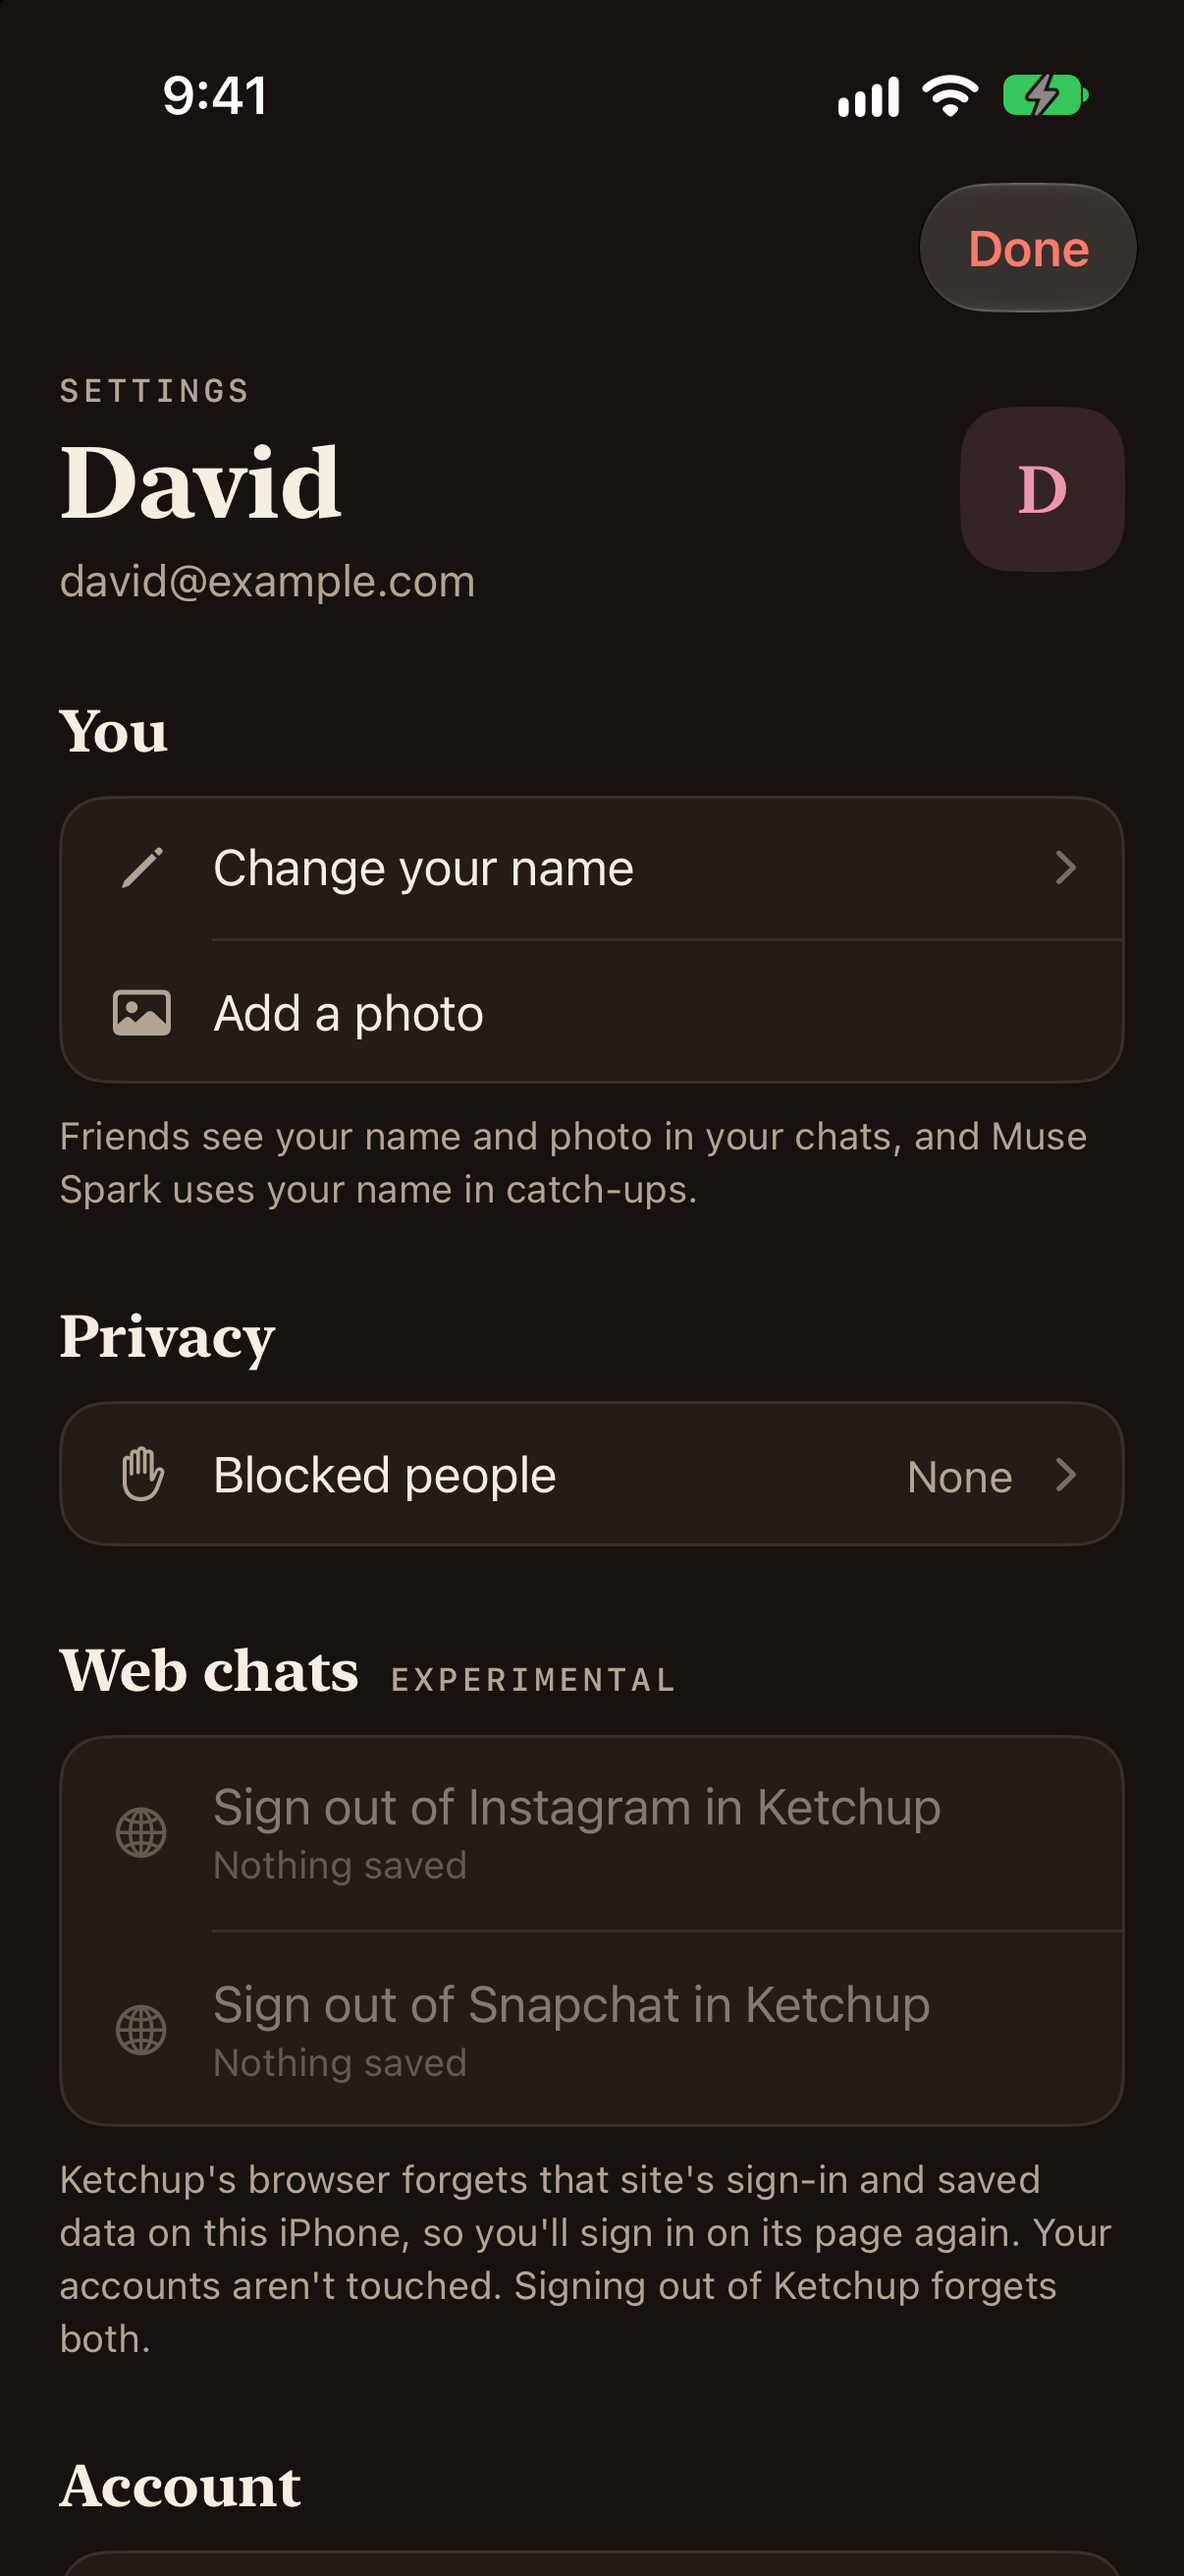
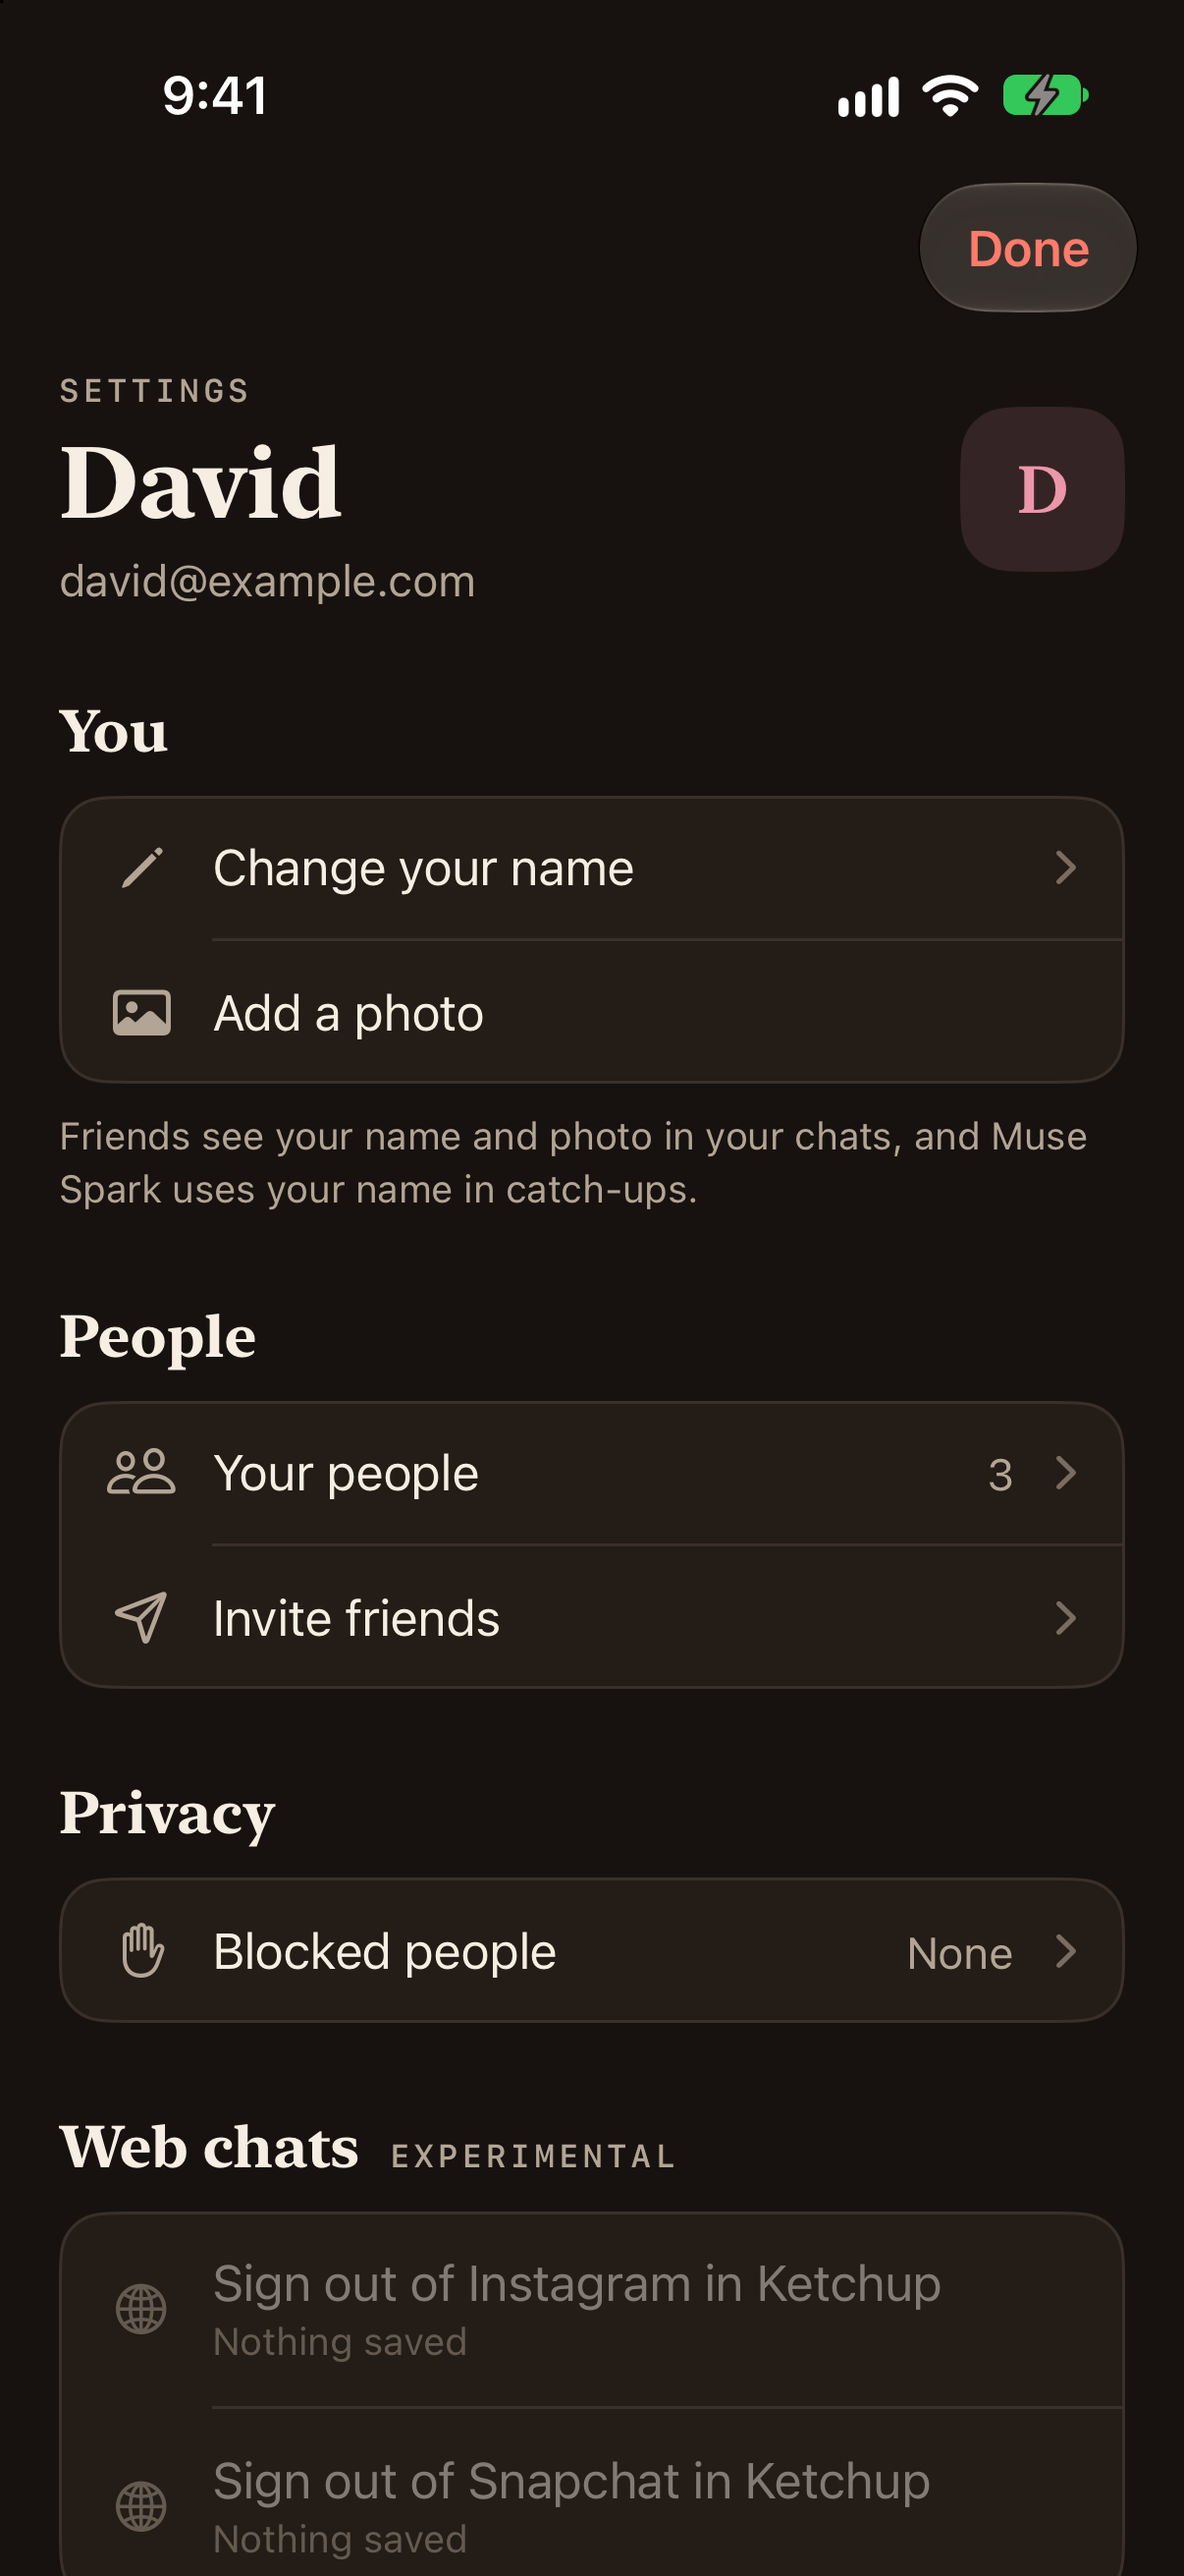
Docs and screenshots: your people, New chat with them, Invite friends
README: Settings and Security sections (no lookup by email or phone, the
contact picker hands over one number, the suite at 79). the project notes: the
contacts and invite recipe and previews. DESIGN.md: the People, picker
and invite pieces. Light, dark and XXL screenshots.

diff --git a/docs/DESIGN.md b/docs/DESIGN.md
@@ -270,6 +270,23 @@ A profile opens from a name or photo in the thread (a sheet) or a member in Chat
 - **Say who's told.** Every block and report screen says it plainly: they aren't told, they won't know it was you.
 - **In Chat info,** a blocked member gets a ketchup "Blocked" kicker, and everyone but you has a chevron.
 
+### Your people and Invite friends
+
+<p>
+<img src="screens/people/people-light.png" width="200" alt="Your people: Maya, Priya and Theo, each in 1 chat with you">
+<img src="screens/people/new-chat-people-light.png" width="200" alt="New chat with Maya and Theo picked to add straight in">
+<img src="screens/people/invite-light.png" width="200" alt="Invite friends: which chat, what they'll get, Text a friend">
+<img src="screens/people/profile-contact-dark.png" width="200" alt="A profile with Remove from your people, dark">
+</p>
+
+| Piece | What it does |
+|---|---|
+| `PeopleView` | A kicker count over "Your people" in New York, then each person's avatar, name and "In 2 chats with you" in mono, with a chevron to their profile. An outline Invite friends under it. |
+| `PeoplePicker(people:picked:)` | Your people with an ink check each, for New chat. |
+| `InviteView` | Which chat (one ink check, its code in mono), the exact message on paper under "What they'll get", Text a friend (the one ketchup button) and an outline Share another way, and a footnote on what Ketchup sees. |
+
+- **Say what's shared.** The invite page names what Ketchup gets from the contact picker: the one number, used once.
+
 ## Voice
 
 - Plain, warm, a little cheeky. **At most one pun per screen.**
@@ -294,7 +311,7 @@ xcrun simctl launch --terminate-running-process <udid> com.vibetemp.ketchup -scr
 | `saved`, `saved-brief`, `saved-empty`, `saved-quote`, `saved-all` | Saved catch-ups (`Debug/SavedPreviewScreen.swift`) on a scratch store: Breck's Earlier catch-ups, opened on its catch-up, empty, a source shown as kept, and every chat's list in its Settings bar |
 | `store-check` | Not a screen: runs the on-device copy and saved catch-ups (`Store/DeviceStore.swift`) against a scratch folder and lists what passed (`Debug/StoreCheckScreen.swift`) |
 | `web-instagram`, `web-snapchat`, `web-intro`, `web-reading`, `web-brief`, `web-error`, `web-quote` | The web-chat screens (`Debug/WebChatPreviewScreen.swift`) on the synthetic threads. `web-instagram` and `web-snapchat` are each page on its bundled fixture; `web-brief` is a hand-written brief, not a Muse Spark call |
-| `settings`, `settings-sheet`, `settings-name`, `settings-delete`, `settings-blocked`, `profile`, `profile-blocked`, `report`, `report-sent`, `info-blocked`, `chat-profile`, `chat-report` | Settings and the people screens (`Debug/PeoplePreviewScreen.swift`), on the demo chat's made-up friends. `settings` is full screen (add `-section web`, `account` or `about`); `settings-sheet` is the sheet as the inbox opens it; `chat-profile` and `chat-report` open over the Breck thread |
+| `settings`, `settings-sheet`, `settings-name`, `settings-delete`, `settings-blocked`, `profile`, `profile-blocked`, `report`, `report-sent`, `info-blocked`, `chat-profile`, `chat-report`, `people`, `people-empty`, `profile-contact`, `new-chat-people`, `invite` | Settings and the people screens (`Debug/PeoplePreviewScreen.swift`), on the demo chat's made-up friends. `settings` is full screen (add `-section web`, `account` or `about`); `settings-sheet` is the sheet as the inbox opens it; `chat-profile` and `chat-report` open over the Breck thread |
 | `photo-crop`, `photo-inbox`, `photo-chat`, `photo-info`, `photo-thread`, `photo-sending`, `photo-attach`, `photo-viewer`, `photo-catchup`, `photo-answer` | Photos (`Debug/PhotosPreviewScreen.swift`): the cropper on a made-up mountain photo; the inbox, the Breck thread and its members with made-up profile photos (`Debug/PreviewPhotos.swift`; Sam has none, to show the monogram); the end of Breck with photos in it, David's photo uploading (a pretend 20 s upload), one waiting in the composer, and the viewer on Maya's cabin; `photo-catchup` (add `-section highlights`) and `photo-answer` cite Maya's door-code photo with its thumbnail |
 
 Light and dark screenshots:

diff --git a/CLAUDE.md b/CLAUDE.md
@@ -102,15 +102,16 @@ safe to re-run) adds two made-up photos on the last day, so a catch-up can cite 
 
 ## Settings and people (migration 0007)
 Code: `ios/Ketchup/People/` (`SettingsView`, `AccountPages`, `SettingsPieces`, `Account.swift`,
-`ProfileView`, `ReportView`, `BlockedPeopleView`, `PeopleStore`, `PeopleModels`),
+`ProfileView`, `ReportView`, `BlockedPeopleView`, `PeopleView` with `PeoplePicker`, `InviteView`,
+`PeopleStore`, `PeopleModels`),
 `Net/PeopleAPI.swift`, `WebChat/WebChatSignOut.swift`, edge functions `delete-account` and
 `report-alert`. Settings opens from the inbox's top-left
 photo (your initial until you add one) as a sheet; signing out waits for the sheet to close (`SettingsExit`, the sheet's
 `onDismiss` in `ChatsListView`), so it can't be left over sign-in.
 - `0007_people.sql` is one file applied live in parts, one `apply_migration` per slice, each
   named `0007_people_<part>` (so far `0007_people_account`, `0007_people_account_photos`,
-  `0007_people_blocks_reports`, `0007_people_reports_index`, `0007_people_delete_files`).
-  Append, never rewrite: a fresh project runs the whole file once.
+  `0007_people_blocks_reports`, `0007_people_reports_index`, `0007_people_delete_files`,
+  `0007_people_contacts`). Append, never rewrite: a fresh project runs the whole file once.
 - Delete account is the `delete-account` edge function (verify_jwt on): it calls
   `delete_account()` as the person (security definer, `authenticated` only), which deletes
   friends' saved catch-ups that read their messages, then the auth user (profile,
@@ -157,14 +158,26 @@ photo (your initial until you add one) as a sheet; signing out waits for the she
   `REPORTS_FROM`, default `Ketchup <noreply@vibetemp.com>`). Deploy:
   `supabase functions deploy report-alert --project-ref cfqlnthmqwkhjbhylvgu --use-api`; an
   unauthenticated POST must return 401. Logs: `"fn":"report-alert"`, counts only.
+- Your people: `contacts` (owner-only select; writes through `add_contact`, which needs a
+  shared chat, and `remove_contact`), `my_contacts()` by name, and `create_chat_with(name,
+  people)`, which adds only your contacts and skips anyone who has blocked you (or whom you
+  blocked) without saying so. `block_person` also removes the contact. New chat
+  (`NewChatSheet(name:people:picked:)`) lists them; ChatsListView calls
+  `KetchupAPI.createChat(name:with:)` when any are picked. No lookup by email or phone, by
+  design. The RLS suite's last section covers it.
+- Invite friends (`InviteView`, also `InviteSheet` from the inbox's +): a chat's code in
+  `InviteMessage.text(for:)`; `InviteMessage.appLink` is nil until there's a TestFlight or
+  App Store link. Text a friend presents `CNContactPickerViewController` (no permission)
+  from the top view controller, then `MFMessageComposeViewController`; the simulator can't
+  text, so it falls back to the share sheet. Tap-through needs a real phone.
 - Previews: `-screen settings` (add `-section web`, `account` or `about`), `settings-sheet`
   (opened by the real inbox, `-KetchupOpenSettings`), `settings-name`, `settings-delete`,
   `settings-blocked`, `profile`, `profile-blocked`, `report`, `report-sent`, `info-blocked`,
-  `chat-profile` and `chat-report` (the sheets opened from the thread). The account email in
+  `chat-profile` and `chat-report` (the sheets opened from the thread), `people`,
+  `people-empty`, `profile-contact`, `new-chat-people`, `invite`. The account email in
   previews is `david@example.com`.
 - Still marked `SLOT`: Saved catch-ups and Clear cache under "On this iPhone" in
-  `SettingsView.swift` (Speed), and "Add to your people" on a profile (People, slice 3). A
-  section whose rows are all empty doesn't show.
+  `SettingsView.swift` (Speed). A section whose rows are all empty doesn't show.
 
 ## Photos (profile photos and photos in chats)
 Code: `ios/Ketchup/Photos/` (`Avatar`, `AvatarCropper`, `ProfilePhotos` with

diff --git a/README.md b/README.md
@@ -231,6 +231,11 @@ flowchart LR
   reports through the API, and the server keeps a copy of the reported message so it
   can still be reviewed if it's deleted later. An edge function emails a heads-up with
   no names or message text in it.
+- **Your people, with no lookup.** You add people from a chat you share; there's no search
+  by email or phone, so nobody can find out who uses Ketchup, and your contacts are never
+  uploaded. Invite friends uses Apple's contact picker, so Ketchup gets only the one number
+  you pick, to open a Messages draft. A new chat with your people never adds anyone who
+  has blocked you, and doesn't say so.
 - **Photos follow the same rules** ([`0006_photos.sql`](supabase/migrations/0006_photos.sql)).
   Profile photos are in a public bucket, so the app loads them without a token, but
   nobody can list it. You can only upload into and delete from your own folder (10 an
@@ -239,12 +244,13 @@ flowchart LR
   URLs) or upload into its folder (200 files an hour), only the sender can delete one,
   and a message can only point at a photo already uploaded to its own chat. Photos are
   re-encoded on the phone, so no location or other metadata leaves it.
-- **A 70-check RLS test suite** ([`supabase/tests/rls_check.sql`](supabase/tests/rls_check.sql))
+- **A 79-check RLS test suite** ([`supabase/tests/rls_check.sql`](supabase/tests/rls_check.sql))
   plays members and an outsider. It covers spoofing the sender, self-adding to a
   chat, editing chats directly, outsider reads and posts, wrong-code counting, the
   Instagram and Snapchat catch-up's usage cap, blocking (hidden reads, unread counts,
   inbox lines, dropped catch-ups, one way), reports (unreadable, never your own, never
-  from outside a chat), profile photos (own folder only, no listing, the hourly cap),
+  from outside a chat), your people (private, only from a shared chat, new chats skip
+  whoever blocked you), profile photos (own folder only, no listing, the hourly cap),
   chat photos (members only, uploaded first, own chat only, only the sender deletes)
   and deleting an account. It runs in one transaction and rolls back.
 
@@ -331,8 +337,12 @@ Settings opens from your initial at the top left of Chats
 - **Sign out, or delete your account for good** (see Security above). A page says what
   goes and what stays, then asks once more.
 - **Profiles, Block and Report.** Tap a name or photo in a chat, or a member in Chat
-  info, for their profile: the chats you share, Block and Report. Long press someone's
-  message to report it. Settings → Blocked people has Unblock.
+  info, for their profile: the chats you share, Add to your people, Block and Report.
+  Long press someone's message to report it. Settings → Blocked people has Unblock.
+- **Your people and Invite friends.** Settings → Your people lists who you've added. New
+  chat lets you add them straight in, no code needed. Invite friends (Settings, or the
+  inbox's +) sends a chat's invite code: Text a friend opens a Messages draft to someone
+  you pick, or share it anywhere.
 
 ## Built during the event
 
